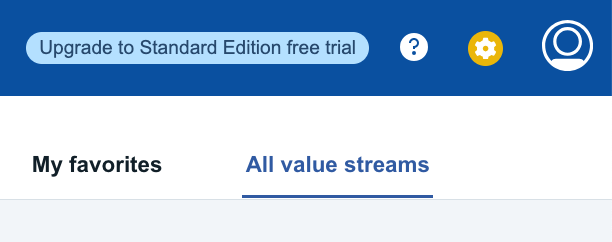
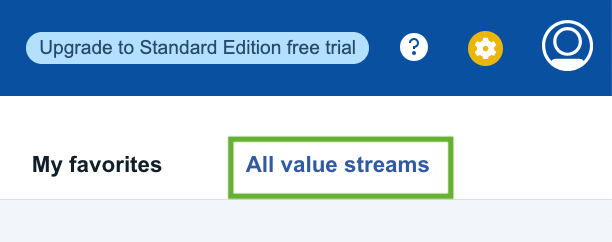
EnablementProofRead

Changed region(s): [[0.3725, 0.5496, 0.7451, 0.8388]]

diff --git a/docs/enablement/index.md b/docs/enablement/index.md
@@ -52,7 +52,7 @@ For more information about DevOps Velocity, visit [Velocity's product documentat
 
 ### What is a Velocity Plugin
 
-Included as part of a Velocity installation are plugins which allow the Velocity Administrator to create connections between delivery pipeline applications and synchronize data between Velocity and the integrated application repository data (ELM, Jira, GitHub, DevOps Control, etc). Each plugin defines an expected record type and communication method. Communication can be uni-directional or bi-directional. To use a plug-in, you must configure an integration. There are multiple ways to configure an integration:
+Included as part of a Velocity installation are plugins which allow the Velocity Administrator to create connections between delivery pipeline applications and synchronize data between Velocity and the integrated application's repository data (ELM, Jira, GitHub, DevOps Control, etc). Each plugin defines an expected record type and communication method. Communication can be uni-directional or bi-directional. To use a plug-in, you must first configure an integration. There are multiple ways to configure an integration:
 
 - Create an integration definition on the Plugins tab of the Integrations page.
 - Install the plug-in and then create an integration definition.
@@ -79,7 +79,7 @@ The highest level of a value stream is a phase. Phases represent important, orga
 
 Phases contain stages that define process flow within a phase. A development phase that integrates a source control tool might contain an In Progress stage followed by In Review and Merged stages. When you customize a value stream, you define the phases and stages and their order.
 
-Stages are containers for dots. Dots represent units of work from DevOps Velocity or tools that are integrated into the value stream. Git commits or Jira issues, to take just two, are represented by individual dots. Work items, such as commits and builds, can be combined into individual dots. A dot's position in the value stream conveys important information about the object. Dots in a stage named Merged might represent items merged into Git repositories. An item's shape and color convey information about the item's type and status. A dot outlined in red, for example, might mean the item is past schedule. When dots change state, they move to new stages in near-real time. Finally, when you click on a dot, the displayed card provides information about the work items, including their history, and provides links to associated tools.
+Stages are containers for dots. Dots represent units of work from DevOps Velocity or tools that are integrated into the value stream. Git commits or EWM work items, to take just two, are represented by individual dots. Work items, such as commits and builds, can be combined into individual dots. A dot's position in the value stream conveys important information about the object. Dots in a stage named Merged might represent items merged into Git repositories. An item's shape and color convey information about the item's type and status. A dot outlined in red, for example, might mean the item is past schedule. When dots change state, they move to new stages in near-real time. Finally, when you click on a dot, the displayed card provides information about the work items, including their history, and provides links to associated tools.
 
 For this purposes of this enablement exercise, a very simple approach was followed in archtitecting the value stream. The phases and stages were mapped to the artifact workflows defined in EWM showing only the current state of the user stories, defects, and tasks.
 
@@ -107,31 +107,31 @@ If you would like to review the entire VSM template, open the link in a new brow
 To visualize EWM artifacts as "DOTS" in a DevOps Velocity value stream, three basic steps must happen:<br/>
 
 1. Configure a plugin to allow Velocity to communicate with EWM.<br/>
-2. Create a Value Stream to provide a "single pane of glass" interface to visualize the "DOTS".<br/>
+2. Create a Value Stream to provide a dashboard user interface to visualize the "DOTS".<br/>
 3. Architect the Value Stream by editing the Value Stream Map (json file) to replicate the workflows being used in EWM.<br/>
 
 ### Configuring the plugin to integrate DevOps Velocity and EWM
 
-The purpose of this exercise is to provide instruction on how to setup the integration between DevOps Velocity with EWM. It is assumed that the ELM server has already been setup and that an EWM project has been configured. For this lab exercise we will be using the JKE Banking sample application available with ELM.
+The purpose of this exercise is to provide instruction on how to setup the integration between DevOps Velocity with EWM. It is assumed that the ELM server has already been setup and that an EWM project has been configured. For this lab exercise we will be using the JKE Banking MTM sample application available with ELM.
 <br/>
 
-| **Step** | **Details**  | **Additional Information** |
+| **Step** | <div style="width:250px">**Details**</div>  | **Additional Information** |
 |:-------------:|:------------- |:------------- |
-| 1 | To access the Velocity plugin interface, open Velocity in a browser and log in. <br/> (uid: admin / pwd: admin) |   |
-| 2 | Click on the settings icon. (Top RHS browser window) | <img src="media/e2.png" alt="e2" style="width:50%; height:auto;"> |
-| 3 | Select Integrations from the LHS navigation bar. | <img src="media/e3.png" alt="e3" style="width:50%; height:auto;"> |
-| 4 | Click on the Installed tab and review the many plugins already available. | <img src="media/e4.png" alt="e4" style="width:50%; height:auto;"> |
+| 1 | To access the Velocity plugin interface, open Velocity in a browser and log in. <br/> (uid: admin / pwd: admin) | <img src="media/d1_2.png" alt="d1_2" style="width:50%; height:auto;"> |
+| 2 | Click on the "Settings" icon. (top RHS of browser window) | <img src="media/e2.png" alt="e2" style="width:50%; height:auto;"> |
+| 3 | Select "Integrations" (LHS navigation bar of browser window). | <img src="media/e3.png" alt="e3" style="width:50%; height:auto;"> |
+| 4 | Click on the "Installed" tab and review the many plugins already available. | <img src="media/e4.png" alt="e4" style="width:50%; height:auto;"> |
 | **NOTE:** | While this exercise does not cover all topics related to plugins, know that administrator users can install additional plugins from the "Available" tab or upload custom plugins using the "Load Plugin" feature. |  |
 | 5 | In the search control, enter “EWM”. | <img src="media/e5.png" alt="e5" style="width:50%; height:auto;"> |
 | 6 | Click the twisty icon for the EWM plugin and note that there are multiple versions of this plugin available for installation. | <img src="media/e6.png" alt="e6" style="width:50%; height:auto;"> |
-| 7 | Click the "Add Integration" button (RHS of page) for IBM Engineering Workflow Management (EWM) v1.1.37. | <img src="media/e7.png" alt="e7" style="width:100%; height:auto;"> |
+| 7 | Click the "Add Integration" button (RHS of the browser window) for IBM Engineering Workflow Management (EWM) v1.1.37. | <img src="media/e7.png" alt="e7" style="width:100%; height:auto;"> |
 | 8 | Working in the pop up window enter the following values into the fields on the form: <br/> <br/> **Integration name:** EWM(JKEBanking)<br/> **Server URL:** TODO: need to update<br/> **Projects (Comma Separated List):** JKE Banking (Change Management)<br/> **User ID:** sysadmin<br/> **Password:** passw0rd (0=zero)<br/> **Show hidden properties:** enabled<br/> **Logging level:** ALL<br/>  | <img src="media/e8.png" alt="e8" style="width:50%; height:auto;"> |
 | 9 | Click the "Add" button when done. |  |
-| 10 | Click the Configured tab on the Integrations page. | <img src="media/e9.png" alt="e9" style="width:50%; height:auto;"> |
+| 10 | Click the "Configured" tab on the Integrations page. | <img src="media/e9.png" alt="e9" style="width:50%; height:auto;"> |
 | 11 | After a few seconds, confirm that the integration Status shows online. |  <img src="media/e10.png" alt="e10" style="width:75%; height:auto;"> |
-| 12 | Click the 3 dots on RHS of integration line and select "View Logs" from the options presented. |  <img src="media/e11.png" alt="e11" style="width:100%; height:auto;"> |
-| **NOTE:** |  If the status is not showing as Online, ensure the ELM Server is available. If the server is running, check the plugin settings to ensure they are properly set  by selecting Edit. | <img src="media/e12.png" alt="e12" style="width:25%; height:auto;"> |
-| 13 | Select the Log file and view output contents. | <img src="media/e13.png" alt="e13" style="width:100%; height:auto;"> |
+| 12 | Click the "3 dots" on the RHS of integration line and select "View Logs" from the options presented. |  <img src="media/e11.png" alt="e11" style="width:100%; height:auto;"> |
+| **NOTE:** |  If the status is not showing as Online, ensure the ELM Server is available. If the server is running, check the plugin settings to ensure they are properly set by clicking Edit. | <img src="media/e12.png" alt="e12" style="width:25%; height:auto;"> |
+| 13 | Click "View logs" and view output contents. | <img src="media/e13.png" alt="e13" style="width:100%; height:auto;"> |
 
 Congratulations on successfully configuring the EWM Plugin.
 
@@ -140,16 +140,16 @@ Congratulations on successfully configuring the EWM Plugin.
 
 ### Creating the EWM Value Stream in DevOps Velocity
 
-Visualizing the dots (Stories, Tasks, Defects) on a value stream dashboard requires a Value Stream created. This section will share instructions on how to create the Value Stream.
+Visualizing the "Dots" (Stories, Tasks, Defects) on a value stream dashboard requires that a Value Stream be created. This section will share instructions on how to create the Value Stream.
 
-| **Step** | **Details**  | **Additional Information** |
+| **Step** | <div style="width:300px">**Details**</div>  | **Additional Information** |
 |:-------------:|:------------- |:------------- |
-| 1 | Continuing to work in DevOps Velocity, navigate to the Value Stream view page. | <img src="media/e15.png" alt="e15" style="width:50%; height:auto;"> |
-| 2 | Click the "All value streams" tab top RHS of browser page. | <img src="media/e16.png" alt="e16" style="width:50%; height:auto;"> |
+| 1 | Continuing to work in DevOps Velocity, navigate to the "Value Stream" view page. | <img src="media/e15.png" alt="e15" style="width:50%; height:auto;"> |
+| 2 | Click the "All value streams" (top RHS of browser window). | <img src="media/e16.png" alt="e16" style="width:50%; height:auto;"> |
 | 3 | Click the "Create" button. | <img src="media/e17.png" alt="e17" style="width:50%; height:auto;"> |
-| 4 | On the pop-up window, enter a meaningful name, and select Default team from the Team drop down list box. <br/> e.g. JKE Banking (Change Management) | <img src="media/e18.png" alt="e18" style="width:50%; height:auto;"> |
+| 4 | On the pop-up window, enter a meaningful name, and select "Default Team" from the Team drop down list box. <br/> e.g. JKE Banking (Change Management) | <img src="media/e18.png" alt="e18" style="width:50%; height:auto;"> |
 | 5 | Click the "Create" button. | <img src="media/e19.png" alt="e19" style="width:50%; height:auto;"> |
-| **NOTE:** | Clicking the "Create & Configure" will lead the user through a series of conifguration windows offering a wizard driven approach to creating the value stream. |  |
+| **NOTE:** | Clicking the "Create & Configure" button will lead the user through a series of conifguration windows offering a wizard driven approach to creating the value stream. |  |
 | 6 | You should now be presented with a basic value stream visualization. | <img src="media/e20.png" alt="e20" style="width:50%; height:auto;"> |
 
 Congratulations on successfully configuring a basic DevOps Velocity value stream.
@@ -165,15 +165,15 @@ However, even though much of the value stream architecture work has already been
 
 | **Step** | **Details**  | **Additional Information** |
 |:-------------:|:------------- |:------------- |
-| 1 | Continuing to work in the newly created value stream view, locate and click on the wrench icon. | <img src="media/e21.png" alt="e21" style="width:50%; height:auto;"> |
+| 1 | Continuing to work in the newly created value stream view, locate and click on the wrench icon (top RHS of browser window). | <img src="media/e21.png" alt="e21" style="width:50%; height:auto;"> |
 | 2 | Select the "Edit value stream map" option. | <img src="media/e22.png" alt="e22" style="width:50%; height:auto;"> |
-| 3 | Open the EWM VS map file in a browser tab.| [EWM VS map Template](https://github.com/DevOpsAutomationLabs/ELM_Velocity/raw/main/files/EWM_defaultWorkflow-vsm.json) |
+| 3 | Open the EWM VS map file in a new browser tab.| [EWM VS map Template](https://github.com/DevOpsAutomationLabs/ELM_Velocity/raw/main/files/EWM_defaultWorkflow-vsm.json) |
 | 4 | Working in the new browser tab, select/highlight the entire VS map code, and copy. |  |
-| 5 | Returning to the value stream map editor in Velocity, select/highlight the entire contents of the editor and replace by pasting in the template code. | <img src="media/e23.png" alt="e23" style="width:100%; height:auto;"> |
-| 6 | Working in the DevOps Velocity value stream editor, locate the integrations stanza within the json file near end of the file. | <img src="media/e24.png" alt="e24" style="width:100%; height:auto;"> |
+| 5 | Returning to the value stream map editor in DevOps Velocity, select/highlight the entire contents of the editor and replace by pasting in the template code from the clipboard. | <img src="media/e23.png" alt="e23" style="width:100%; height:auto;"> |
+| 6 | Working in the DevOps Velocity value stream editor, locate the "integrations stanza" within the json file (near end of the json file). | <img src="media/e24.png" alt="e24" style="width:100%; height:auto;"> |
 | 7 | Replace the "EWM integration name" text string with the name of your EWM plugin. <br/> e.g. EWM(JKEBanking) | <img src="media/e25.png" alt="e25" style="width:50%; height:auto;"> |
-| 8 | Verify that the update was saved successfully. | <img src="media/e26.png" alt="e26" style="width:50%; height:auto;"> |
-| **NOTE:** | DevOps Velocity offers version control to help in managing value stream map changes. With the recent change, note the addition of  a new version. | <img src="media/e27.png" alt="e27" style="width:50%; height:auto;"> |
+| 8 | Save and verify that the change was saved successfully. | <img src="media/e26.png" alt="e26" style="width:50%; height:auto;"> |
+| **NOTE:** | DevOps Velocity offers version control (out of the box) to help in managing value stream map changes. With the recent change, note the addition ofß a new version. | <img src="media/e27.png" alt="e27" style="width:50%; height:auto;"> |
 | 9 | Click the "Back" button to return to the value stream view. | <img src="media/e28.png" alt="e28" style="width:50%; height:auto;"> |
 | 10 | You should now see a re-configured value stream architecture with "DOTS". | <img src="media/e29.png" alt="e29" style="width:100%; height:auto;"> |
 | 11 | To arrange the Stages and location of Stages on the value stream view, enable the drag feature by clicking on the pencil icon located on the mini toolbar. | <img src="media/e30.png" alt="e30" style="width:20%; height:auto;"> |
